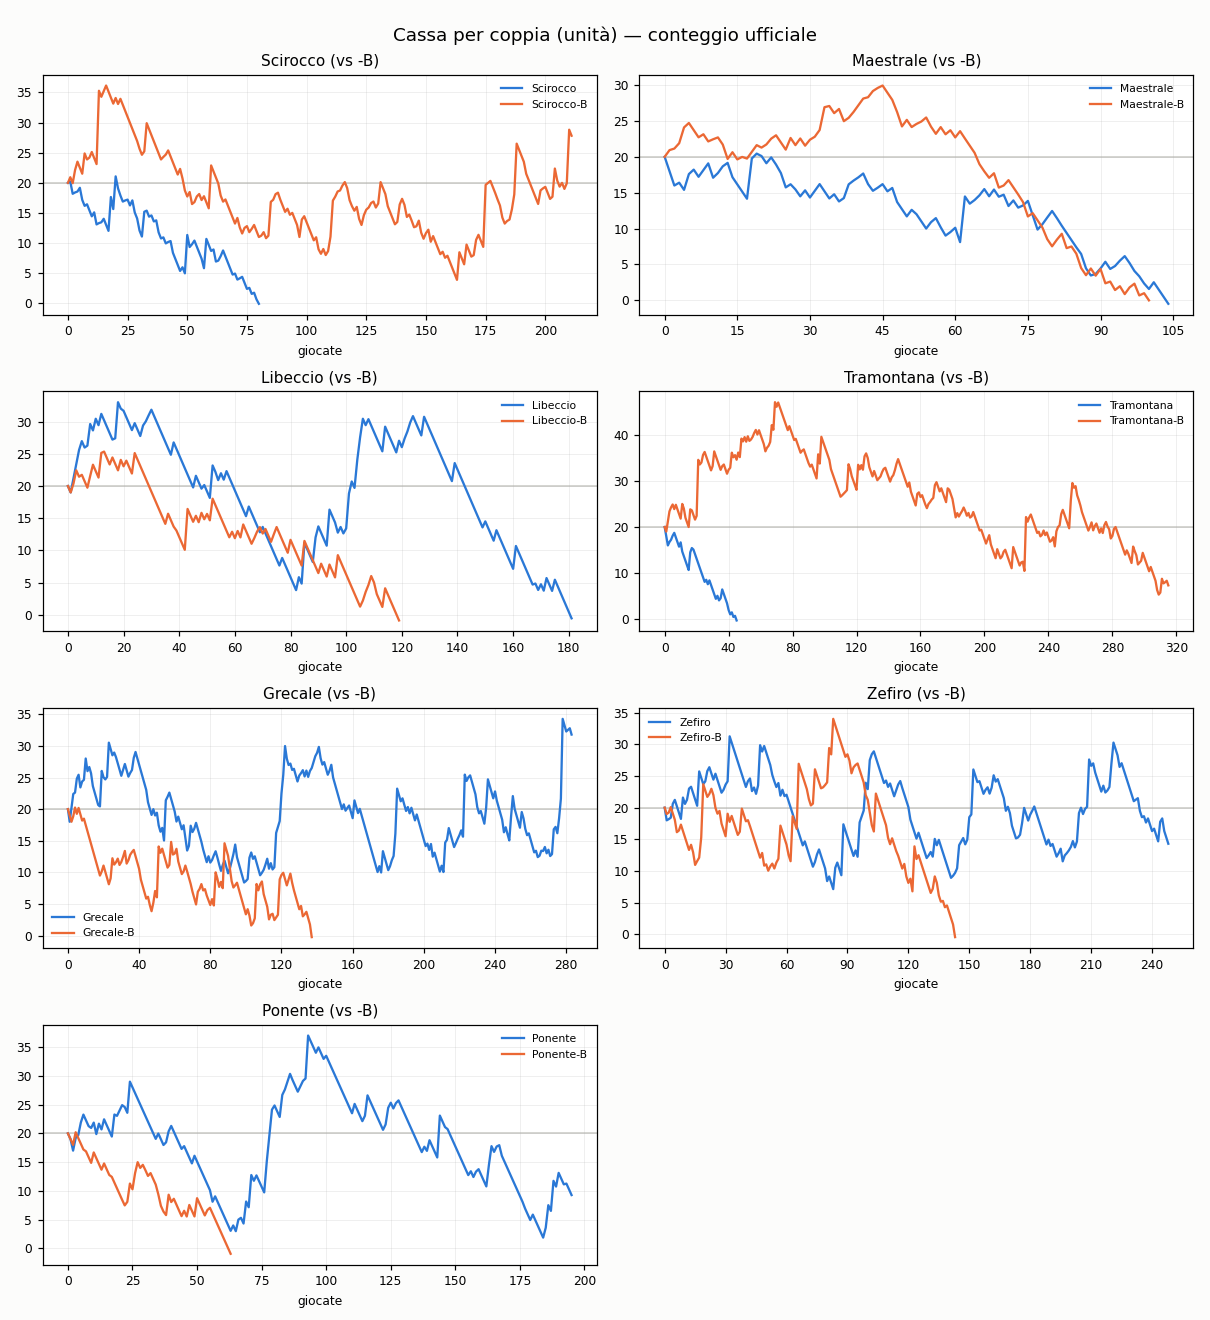
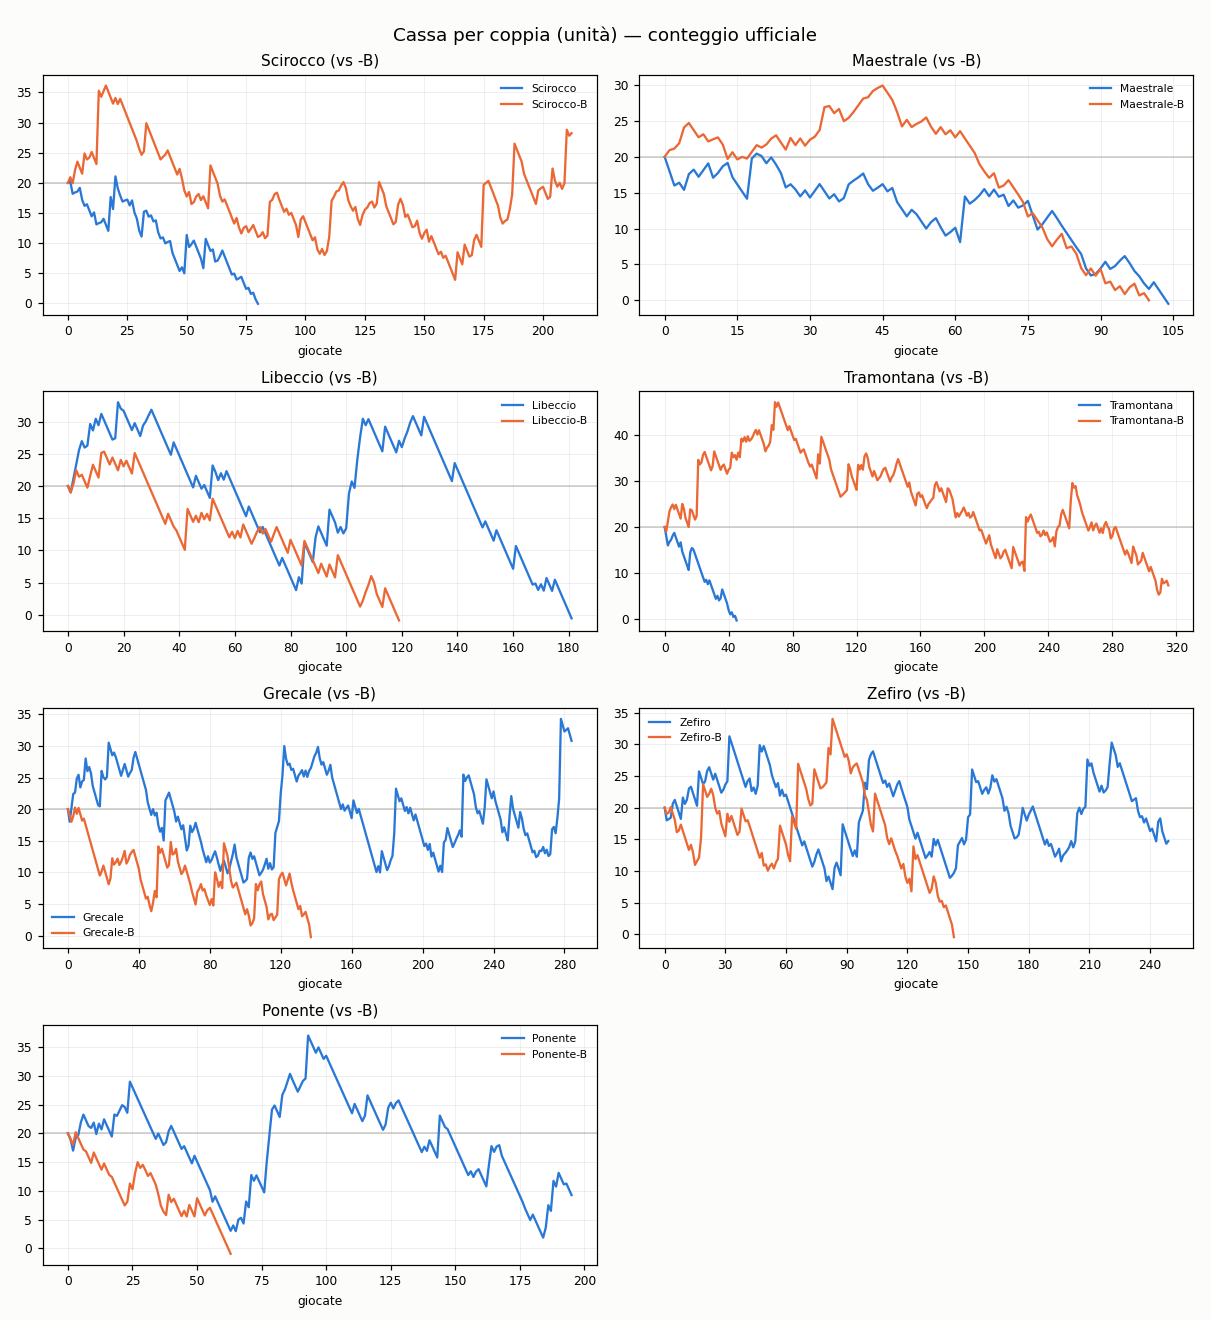
aggiornamento 2026-07-25 14:26 UTC

diff --git a/README.md b/README.md
@@ -37,9 +37,9 @@ scala in unità). Non indichiamo quale.
 
 ## Grafici
 
-![Coppie: dati completi vs ridotti](https://raw.githubusercontent.com/Kitem19/ippica-track-record/main/charts/equity_pairs.png?v=ed8ef5c9)
+![Coppie: dati completi vs ridotti](https://raw.githubusercontent.com/Kitem19/ippica-track-record/main/charts/equity_pairs.png?v=07be78e3)
 
-![Delta per coppia](https://raw.githubusercontent.com/Kitem19/ippica-track-record/main/charts/coppie_delta.png?v=dca433a0)
+![Delta per coppia](https://raw.githubusercontent.com/Kitem19/ippica-track-record/main/charts/coppie_delta.png?v=f2a53409)
 
 ### Come leggere i grafici
 
@@ -56,34 +56,34 @@ scala in unità). Non indichiamo quale.
 
 _Poche giornate: numeri ancora rumorosi, si conclude a fine fase (31/7)._
 
-- **Scirocco**: dati ridotti avanti di 27,9u — qui gli extra non aiutano
+- **Scirocco**: dati ridotti avanti di 28,3u — qui gli extra non aiutano
 - **Maestrale**: in sostanziale pareggio — troppo presto per dire
 - **Libeccio**: in sostanziale pareggio — troppo presto per dire
 - **Tramontana**: dati ridotti avanti di 7,6u — qui gli extra non aiutano
-- **Grecale**: dati completi avanti di 32,0u
-- **Zefiro**: dati completi avanti di 14,8u
+- **Grecale**: dati completi avanti di 31,0u
+- **Zefiro**: dati completi avanti di 15,2u
 - **Ponente**: dati completi avanti di 10,2u
 
 ## Classifica (conteggio ufficiale)
 
 | Sistema | Cassa (u) | P/L (u) | Selezioni | Escluse | Stato |
 |---|---|---|---|---|---|
-| Grecale | 31,8 | +11,8 | 283 | 4 | 🟢 |
-| Scirocco-B | 27,8 | +7,8 | 211 | 0 | 🟢 |
-| Zefiro | 14,3 | -5,7 | 248 | 5 | 🟢 |
+| Grecale | 30,8 | +10,8 | 284 | 4 | 🟢 |
+| Scirocco-B | 28,2 | +8,2 | 212 | 0 | 🟢 |
+| Zefiro | 14,7 | -5,3 | 249 | 5 | 🟢 |
 | Ponente | 9,3 | -10,7 | 195 | 28 | 🟢 |
 | Tramontana-B | 7,3 | -12,7 | 315 | 0 | 🟢 |
-| Maestrale-B | 0,0 | -20,0 | 100 | 214 | 🛑 |
-| Scirocco | 0,0 | -20,1 | 80 | 223 | 🛑 |
-| Grecale-B | 0,0 | -20,2 | 137 | 154 | 🛑 |
+| Maestrale-B | 0,0 | -20,0 | 100 | 215 | 🛑 |
+| Scirocco | 0,0 | -20,1 | 80 | 224 | 🛑 |
+| Grecale-B | 0,0 | -20,2 | 137 | 155 | 🛑 |
 | Tramontana | 0,0 | -20,3 | 45 | 287 | 🛑 |
-| Zefiro-B | 0,0 | -20,5 | 143 | 57 | 🛑 |
-| Maestrale | 0,0 | -20,5 | 104 | 234 | 🛑 |
-| Libeccio | 0,0 | -20,6 | 181 | 144 | 🛑 |
-| Libeccio-B | 0,0 | -20,9 | 119 | 158 | 🛑 |
+| Zefiro-B | 0,0 | -20,5 | 143 | 58 | 🛑 |
+| Maestrale | 0,0 | -20,5 | 104 | 235 | 🛑 |
+| Libeccio | 0,0 | -20,6 | 181 | 145 | 🛑 |
+| Libeccio-B | 0,0 | -20,9 | 119 | 159 | 🛑 |
 | Ponente-B | 0,0 | -21,0 | 63 | 77 | 🛑 |
 
-_Aggiornato: 25/07 16:21_
+_Aggiornato: 25/07 16:26_
 ---
 *Nessuna delle informazioni qui pubblicate costituisce consiglio di gioco.
 Il gioco può causare dipendenza — 18+.*
